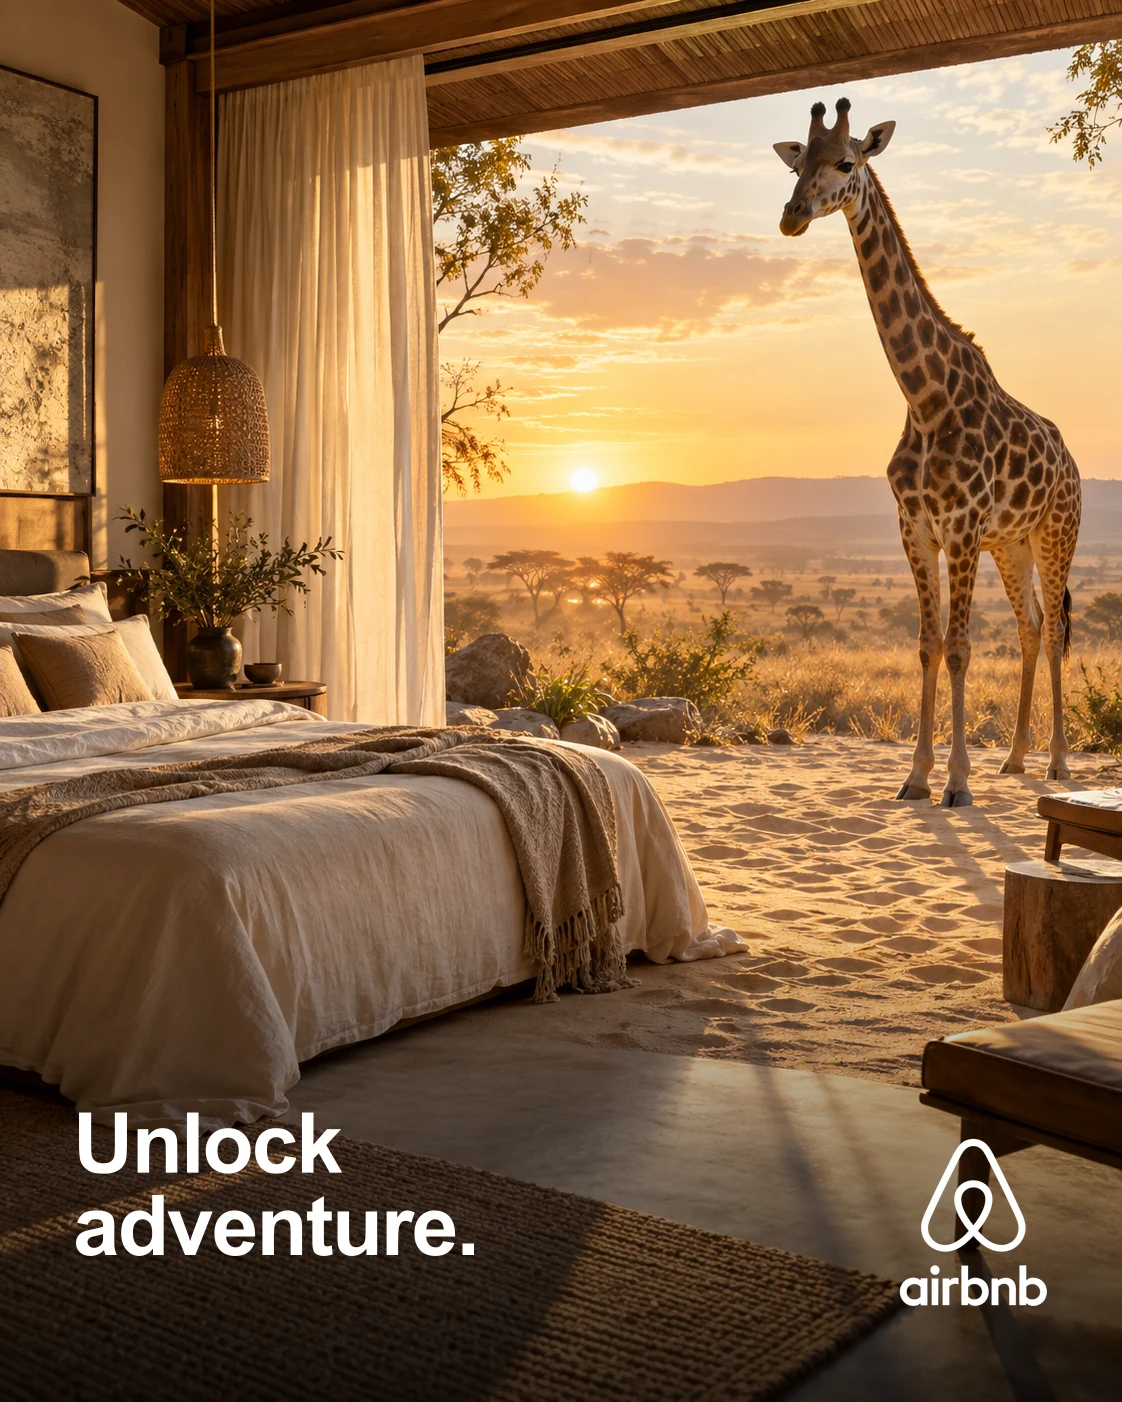
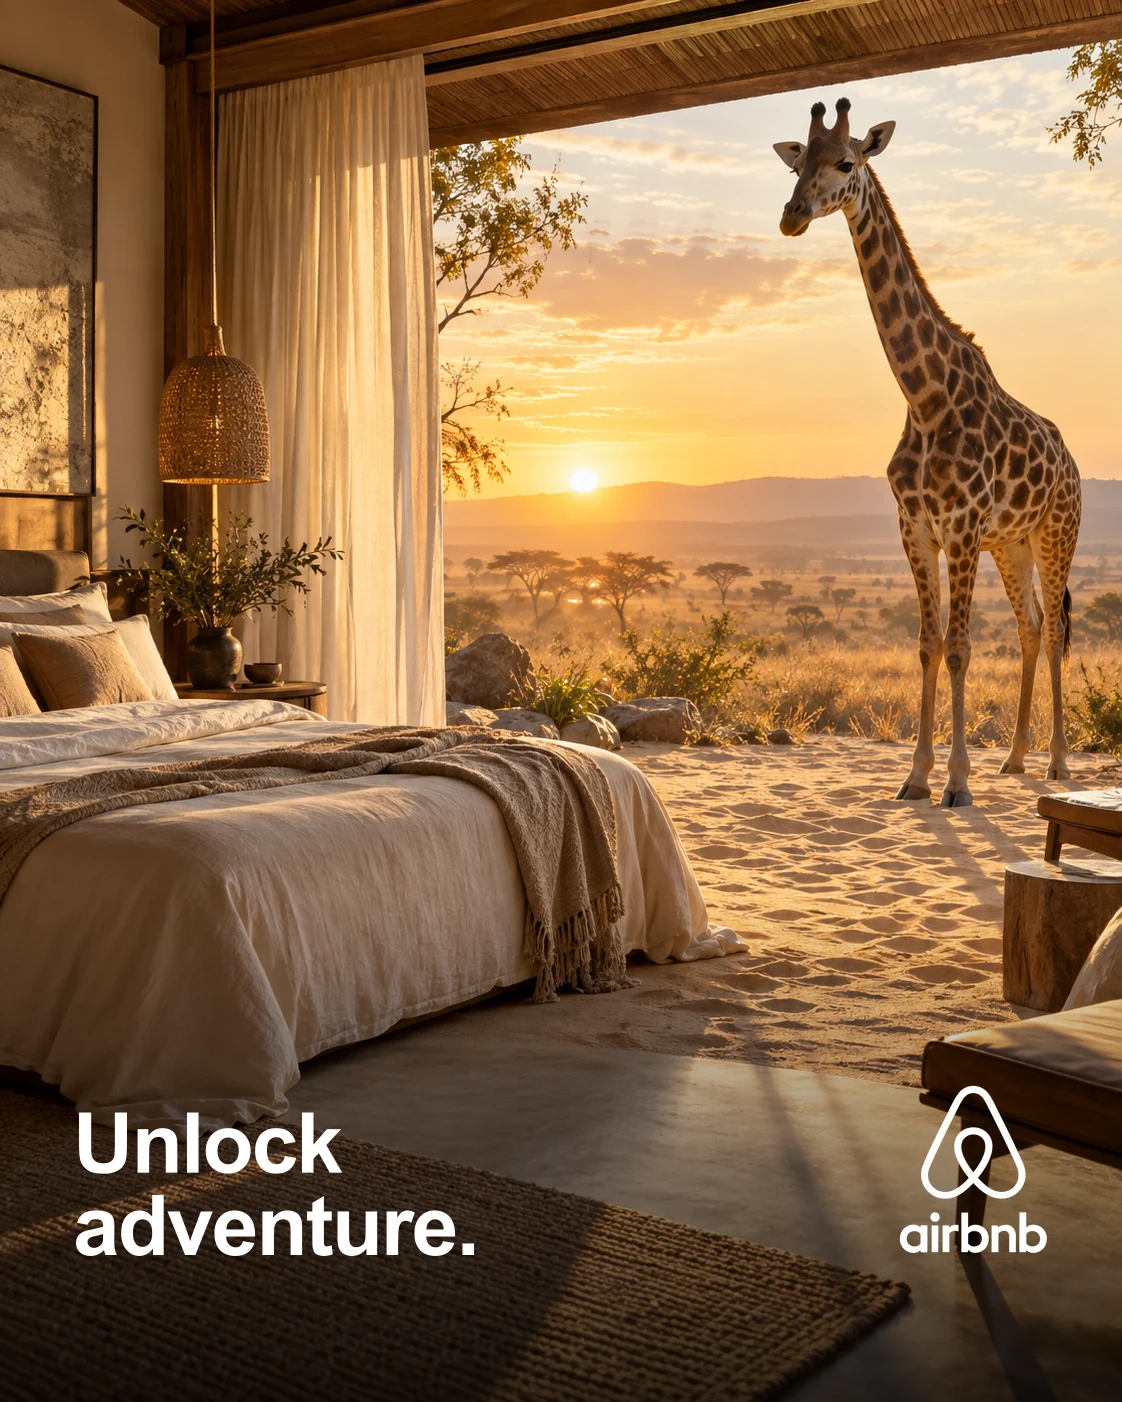
Refine Airbnb outdoor campaign placements

Changed region(s): [[0.7799, 0.7668, 0.9358, 0.9508]]

diff --git a/assets-source/airbnb/README.md b/assets-source/airbnb/README.md
@@ -1,6 +1,6 @@
 # Airbnb · Unlock Adventure presentation
 
-The supplied project photographs were used as visual references, not placed directly on the site. Five new interior/destination scenes and two empty Kuwait City placement settings were generated for this portfolio presentation. `brand-reference.png` is the supplied logo reference; `scripts/build-airbnb-assets.mjs` extracts the white client lockup and adds the campaign headline and logo directly to every published campaign visual. Published WebP files are opaque.
+The supplied project photographs were used as visual references, not placed directly on the site. Five new interior/destination scenes and additional Kuwait City placement settings were generated for this portfolio presentation. `brand-reference.png` is the supplied logo reference; `scripts/build-airbnb-assets.mjs` extracts the white client lockup and aligns the campaign headline and logo directly inside the published visuals. Published WebP files are opaque.
 
 The two outdoor scenes are **presentation mockups**, not documentary photographs of actual placements. The project credit on the page identifies them accordingly.
 
@@ -13,6 +13,10 @@ The two outdoor scenes are **presentation mockups**, not documentary photographs
 - `antarctic-bedroom.png`: Penguin and Antarctic seascape beyond a city bedroom.
 - `kuwait-city-display.png`: Blank, front-facing plaza display for a precise brand-art application.
 - `kuwait-bus-shelter.png`: Blank, front-facing shelter display for a second application.
+- `kuwait-blue-hour-streetboard.png`: Printed polar-bear billboard with visible vinyl tension and creases at blue hour. The complete lockup is already aligned in this generated scene.
+- `kuwait-rhino-streetboard-base.png`: Printed rhinoceros streetboard; the mark was cleared for precise baseline placement in the asset builder.
+- `kuwait-giraffe-lightbox-base.png`: Reflective bus-shelter print with uneven fluorescent transmission; the mark was cleared for baseline placement.
+- `kuwait-penguin-lightbox-base.png`: Night bus shelter with a visible tube in the frame and subtle glass reflections; the mark was cleared for baseline placement.
 
 ## Presentation benchmark
 
@@ -21,4 +25,4 @@ The two outdoor scenes are **presentation mockups**, not documentary photographs
 - [COLLINS / Target A New Day](https://wearecollins.com/case-studies/target-a-new-day/): Warm imagery is supported by a clear emotional premise. Here one short editorial opening frames the visual gallery.
 - [Studio Dumbar / MTV VMAs 2022](https://studiodumbar.com/work/mtv-vmas-2022): Campaign design should retain its identity across formats. Here the branded art is tested within upright outdoor and digital placements.
 
-This case uses a different sequence from MCI and Divar: a wide campaign cover → four-frame portrait gallery → coral narrative pause → two street-scale placement studies. No sketch imagery or captions under the pictures.
+This case uses a different sequence from MCI and Divar: a square campaign cover → four-frame portrait gallery → coral narrative pause → one plaza display → a pair of printed streetboards → two backlit transit executions. No sketch imagery or captions under the pictures.
